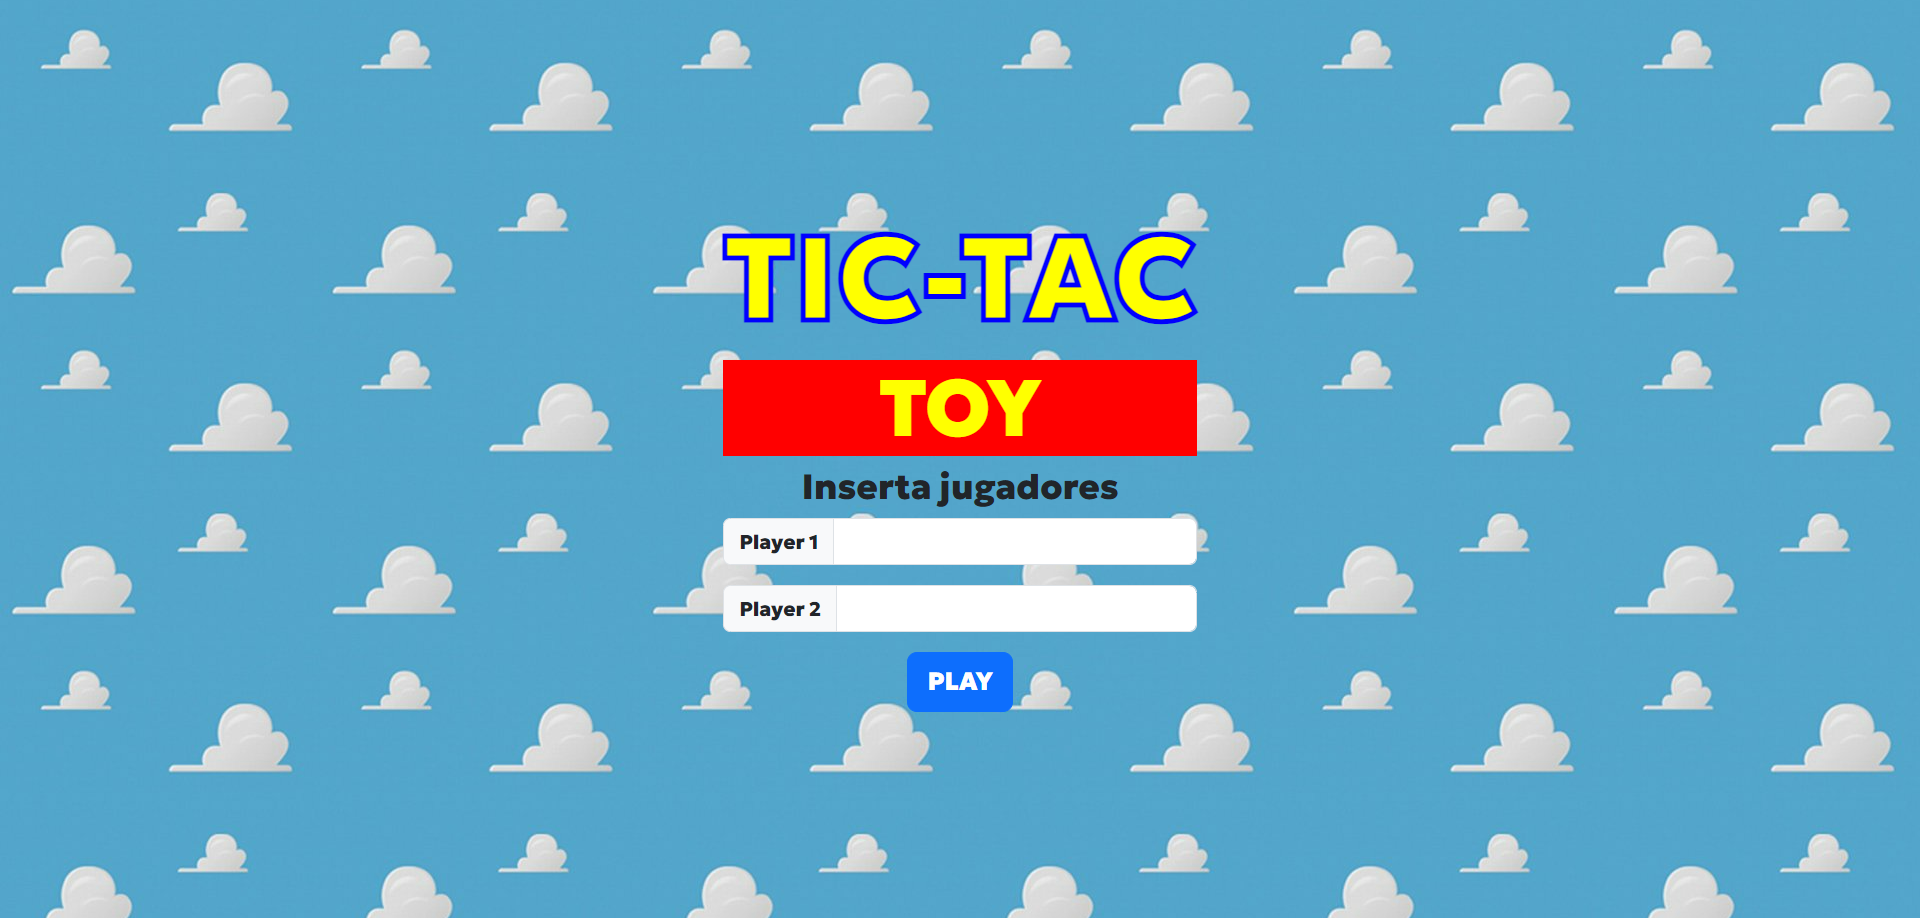
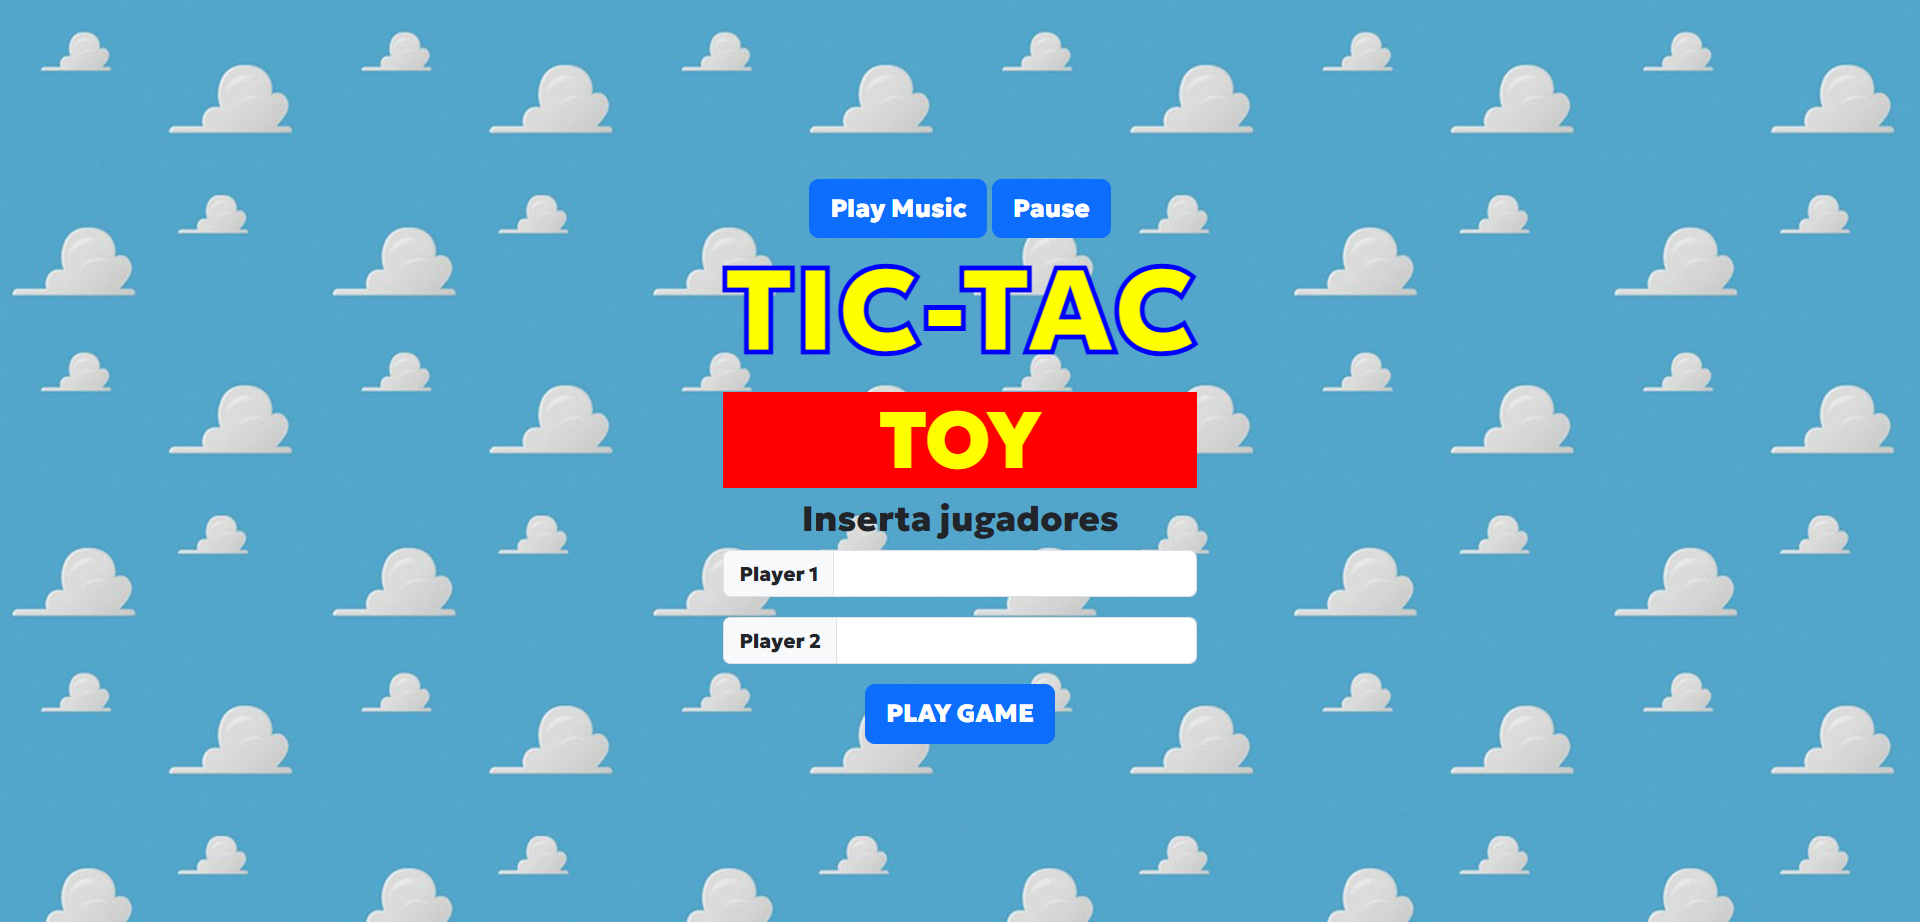
cambios en las paginas html

diff --git a/index.html b/index.html
@@ -12,6 +12,7 @@
 </head>
 
 <body>
+    <div id="root"></div>
     <div class="container text-center">
         <div class="inicio">
             <div class="row">
@@ -31,15 +32,13 @@
                                 aria-describedby="inputGroup-sizing-default">
                         </div>
                     </div>
-                    <div class="boton">
-                        <a href="game.html"><button type="button" class="btn btn-primary btn-lg">PLAY</button></a>
+                    <div class="boton" id="boton-play">
+                        <button type="button" class="btn btn-primary btn-lg" id="boton-play">PLAY</button>
                     </div>
                 </div>
             </div>
         </div>
     </div>
-
-
 
     <script src="main.js"></script>
     <script src="https://cdn.jsdelivr.net/npm/bootstrap@5.3.0/dist/js/bootstrap.bundle.min.js"></script>

diff --git a/game.html b/game.html
@@ -22,7 +22,7 @@
                 <img class="img-fluid" src="img/marcianos-toy-story-removebg-preview.png" alt="">
             </div>
         </div>
-        <div class="tablero">
+        <div class="tablero" id="tablero">
             <div class="casilla"></div>
             <div class="casilla"></div>
             <div class="casilla"></div>
